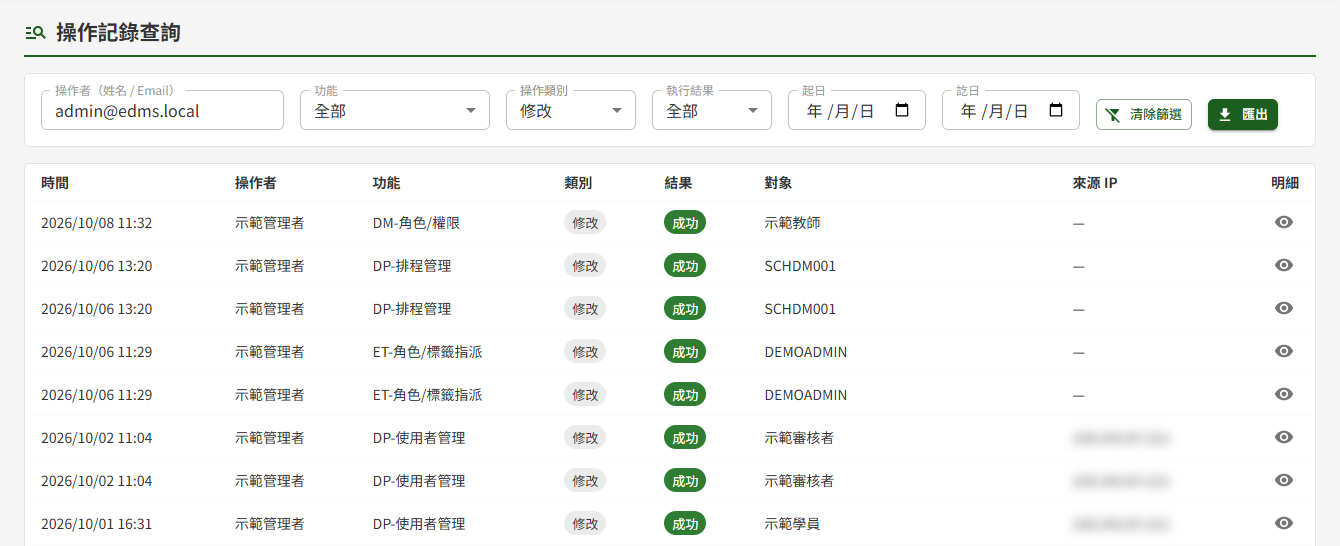
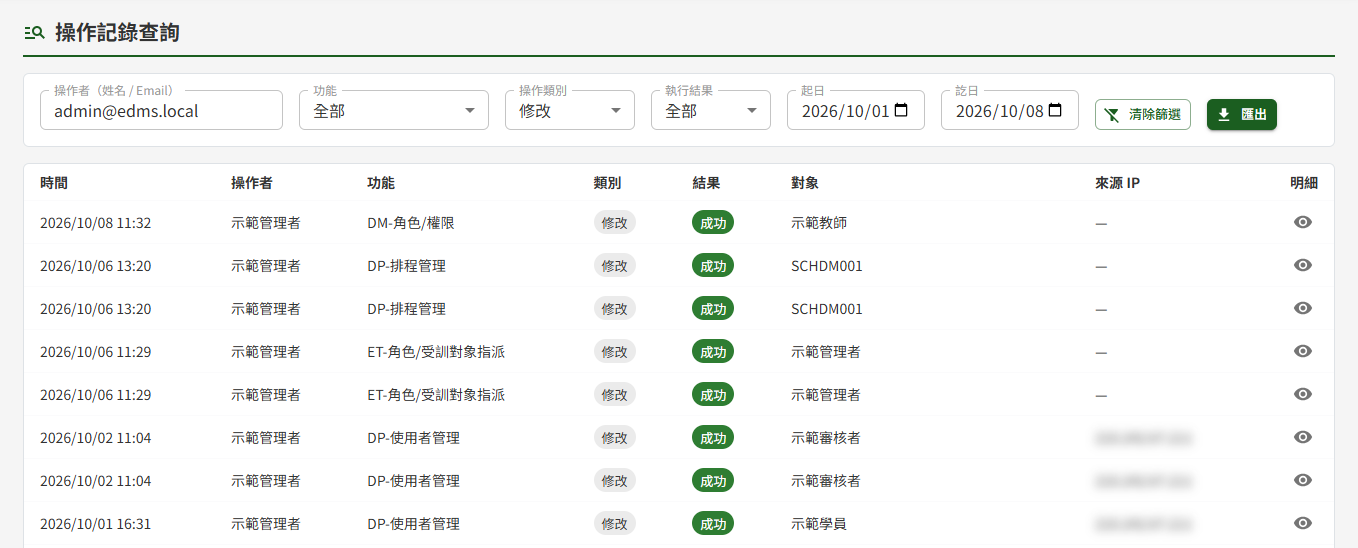
docs(dm,dp): 同步 DP05 對象欄顯示名稱、DM 輸入上限與彙整催辦信 (#728)
- DP05：重拍 dp05-01（#721 起 ET 角色指派的對象顯示姓名），測試項目補第 4-1 項（含 #725 課程名）
- DM02／DM07：退回原因與廢止原因至多 500 字並顯示字數（#722），重拍 dm02-06、dm07-03
- DM08：文件名稱、版本號、摘要補上長度上限（#722）
- DM 測試項目第 4 項改為彙整催辦信（#704）
- 重產 DM、DP 測試報告

diff --git a/docs/manuals/_tests/DP-平台管理模組.md b/docs/manuals/_tests/DP-平台管理模組.md
@@ -179,6 +179,7 @@
 | 已有異動記錄 | 測試前先於 DP01 使用者管理對一個測試帳號執行「停用」再「啟用」，以產生兩筆可比對前後值的修改記錄（第 4、5 項） |
 | 一筆登入失敗記錄 | 以任一帳號輸入錯誤密碼登入一次，產生一筆失敗的登入記錄（第 3 項） |
 | 跨日的記錄 | 至少兩天皆有操作記錄，否則驗不到日期篩選（第 6 項） |
+| 教育訓練的異動記錄 | 測試前先於 DP02 權限管理調整一位使用者的教育訓練角色，並由教師修改一門課程的基本資料後儲存，各產生一筆記錄（第 4-1 項） |
 
 ### 測試項目清單
 
@@ -188,6 +189,7 @@
 | 2 | 於「操作者（姓名 / Email）」輸入管理者 Email 的一段，不按任何按鈕，清單應自動只列出該管理者的記錄。 |
 | 3 | 於「執行結果」選「失敗」，清單應列出測試前準備的那筆登入失敗記錄。 |
 | 4 | 於「功能」選「DP-使用者管理」、「操作類別」選「修改」，應列出停用與啟用該測試帳號的兩筆記錄，對象為該帳號。 |
+| 4-1 | 於「功能」選「ET-角色/受訓對象指派」，對象應顯示被調整者的姓名，而非帳號代碼；改選「ET-課程維護」，對象應顯示課程名稱。 |
 | 5 | 開啟停用那一筆的明細，應顯示事件描述「停用帳號」，異動前值為啟用中、異動後值為已停用。 |
 | 6 | 將「起日」與「訖日」設為同一天，清單應只列出該日（台灣時間）的記錄；按「清除篩選」後應恢復列出全部記錄。 |
 | 7 | 按「匯出」，下載的 CSV 以 Excel 開啟中文正常，內容為目前查詢條件下的全部記錄，時間為台灣時間且精確到秒。 |

diff --git a/docs/manuals/_tests/DM-文件管理模組.md b/docs/manuals/_tests/DM-文件管理模組.md
@@ -97,7 +97,7 @@
 | 1 | 以審核者甲進入簽核中心，「待簽核」應只列出指定審核者為本人之送審，指派給審核者乙之項目不應出現。 |
 | 2 | 編輯者甲於個人專區撤回一筆送審後，審核者甲重新進入簽核中心，該項目應已自「待簽核」消失，且不列於「已完成」。 |
 | 3 | 管理者將催辦門檻調為 1 天後，送審已滿 24 小時之項目，其停留天數應以紅字加警示符號標示；未滿 24 小時者不標示。 |
-| 4 | 承上，每日催辦排程執行後（或請 IT 手動觸發），審核者甲應收到該項目之催辦 Email，信中含文件名稱與停留天數。 |
+| 4 | 承上，每日催辦排程執行後（或請 IT 手動觸發），審核者甲應收到一封催辦 Email，主旨為「【催辦】您有 N 件送審待簽核」，信中逐項列出其所有逾期送審之文件名稱與停留天數；有多筆逾期者仍只收到一封。 |
 | 5 | 點文件 P 之列，下方應展開簽核明細，顯示可見對象「國防部軍醫局＋護理師」、檢索標籤與首版摘要，按「下載」可取得送審檔案。 |
 | 6 | 點文件 R 之列（新版本），檔案區應並列目前發布版與待審新版，兩者皆可下載。 |
 | 7 | 點文件 T 之列（廢止），變更摘要應顯示申請人填寫之廢止原因，且可「下載廢止附件」。 |

diff --git a/docs/manuals/dm/DM08-文件新增與編輯.md b/docs/manuals/dm/DM08-文件新增與編輯.md
@@ -34,7 +34,7 @@
 
 ### 填寫基本資料
 
-1. 輸入「文件名稱」並選擇「分類」
+1. 輸入「文件名稱」（至多 200 字）並選擇「分類」
 2. 分類為「系統操作手冊」時，另須於「關聯作業項目」選擇該手冊對應的作業。**同一個作業項目只能有一份已發布的手冊**
 3. 設定「可見對象」（分類為訓練教材者免填，見下段）
 4. 需要時於「檢索標籤（選填）」選擇標籤，分為適用模組、文件性質、法規關聯、其他四組（尚無標籤的組別不顯示），可多選，供 DM01 文件庫篩選
@@ -55,8 +55,8 @@
 
 ### 填寫版本資訊
 
-1. 於「首版版本號」（編輯新版本時為「新版本號」）輸入版本號，例如 v1.0、2026 V2.0，格式不拘
-2. 於「首版摘要」（編輯新版本時為「變更摘要」）說明本版內容或本次變更
+1. 於「首版版本號」（編輯新版本時為「新版本號」）輸入版本號，例如 v1.0、2026 V2.0，格式不拘，至多 20 字
+2. 於「首版摘要」（編輯新版本時為「變更摘要」）說明本版內容或本次變更，至多 1000 字
 
 版本號由撰寫者自行輸入。送交簽核時，版本號**不可與本文件已發布過的版本重複**；編輯新版本時，右側「最近版本」列出本文件近期的版本號，可供對照。
 

diff --git a/docs/manuals/dm/DM07-文件詳細頁.md b/docs/manuals/dm/DM07-文件詳細頁.md
@@ -78,7 +78,7 @@
 文件不再適用時，具編輯者角色者可申請整份廢止。送審期間文件仍照常提供，**經審核者核准後才正式廢止下架**。
 
 1. 按操作列右側的「廢止此文件」
-2. 於「申請廢止文件」視窗填寫「廢止原因」（必填）
+2. 於「申請廢止文件」視窗填寫「廢止原因」（必填，至多 500 字，輸入框下方顯示已輸入字數）
 3. 需要附上公文等依據時，於「廢止附件」按「選擇檔案」附加一個檔案（選填），格式與大小限制同文件上傳
 4. 於「指定審核者」選擇一位審核者。名單為具審核者角色者，不含本人
 5. 按「送出廢止申請」

diff --git a/docs/manuals/dp/DP05-操作記錄查詢.md b/docs/manuals/dp/DP05-操作記錄查詢.md
@@ -43,7 +43,7 @@
 | 執行結果 | 成功或失敗。追查登入失敗、權限被拒等異常時，選「失敗」 |
 | 起日、訖日 | 依操作發生的日期篩選，起、訖兩日皆含在內，日期以台灣時間計。訖日最晚可選到今天 |
 
-![以操作者與操作類別「修改」篩選，清單只列出符合的記錄，右側明細鈕可開啟單筆明細](../_images/dp/dp05-01.png)
+![以操作者、操作類別「修改」與起訖日篩選，清單只列出符合的記錄，對象欄顯示被操作者的姓名或項目代碼，右側明細鈕可開啟單筆明細](../_images/dp/dp05-01.png)
 
 ### 檢視查詢結果
 

diff --git a/docs/manuals/dm/DM02-簽核中心.md b/docs/manuals/dm/DM02-簽核中心.md
@@ -94,7 +94,7 @@
 三類送審皆可退回。
 
 1. 於簽核明細按「退回」
-2. 於「退回原因」填寫退回的理由，此欄必填
+2. 於「退回原因」填寫退回的理由，此欄必填、至多 500 字，輸入框下方顯示已輸入字數
 3. 按「確認退回」
 
 ![按「退回」後於視窗填寫退回原因，按「確認退回」送出](../_images/dm/dm02-06.png)
